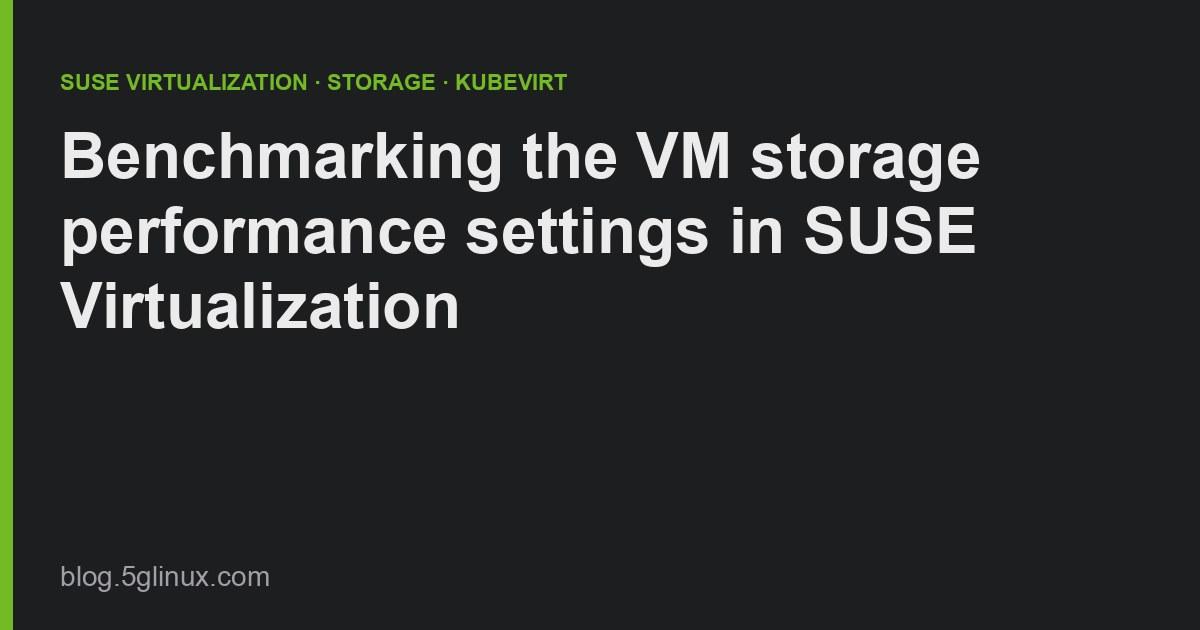
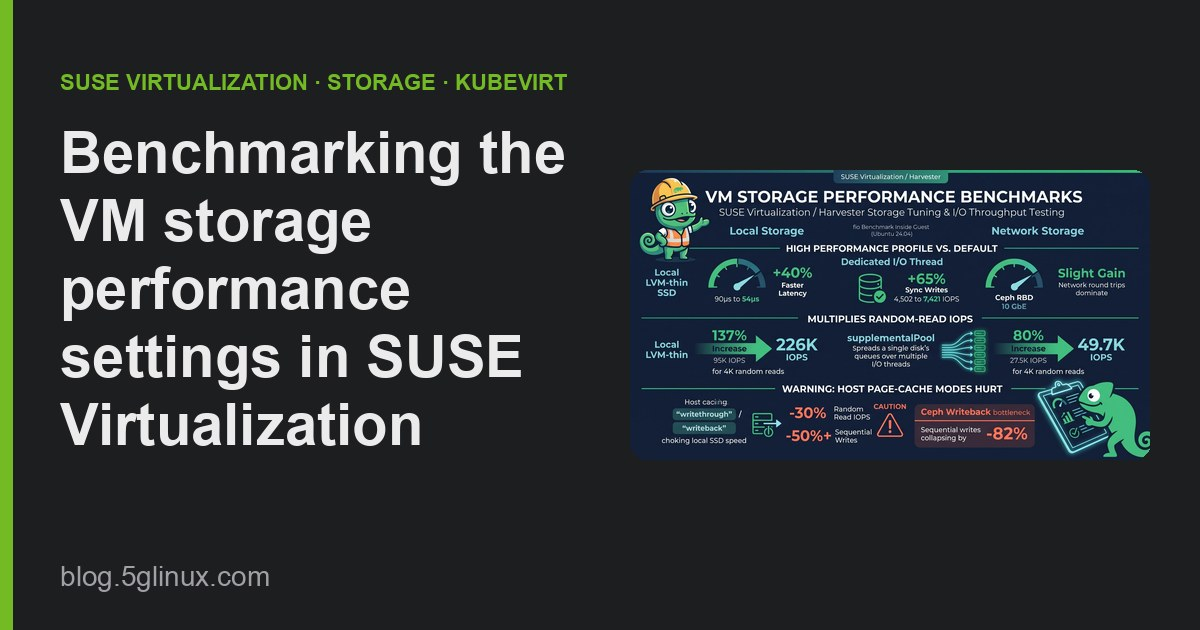
Add infographic and I/O thread scaling results to storage performance post

Changed region(s): [[0.0308, 0.2111, 0.9558, 0.7238]]

diff --git a/content/posts/vm-storage-performance-settings-benchmark-suse-virtualization/index.md b/content/posts/vm-storage-performance-settings-benchmark-suse-virtualization/index.md
@@ -17,7 +17,8 @@ images: ["og.jpg"]
 - **A supplemental I/O thread pool multiplies random-read IOPS.** With
   `ioThreadsPolicy: supplementalPool`, one disk's queues spread over several I/O threads:
   4K random reads went from 95k to **226k IOPS** (2.4×) on local storage and from
-  27.5k to **49.7k IOPS** (1.8×) on Ceph.
+  27.5k to **49.7k IOPS** (1.8×) on Ceph. Four threads was the sweet spot on an 8-vCPU
+  VM; eight was worse.
 - **Host page-cache modes hurt on fast storage.** `cache: writethrough` and
   `cache: writeback` cut random-read IOPS by about 30% and sequential writes by more than
   half on local LVM. On Ceph, writeback acknowledges small writes from host RAM
@@ -27,6 +28,8 @@ images: ["og.jpg"]
   stops the VM from starting.
 - **`blockMultiQueue` and `ioThreadsPolicy: auto`** changed almost nothing in these tests,
   and the guest already gets one queue per vCPU without `blockMultiQueue`.
+
+![Infographic summarizing the results: the High Performance profile cuts local write latency from 90 to 54 µs and raises sync writes from 4,502 to 7,421 IOPS; supplementalPool raises 4K random reads from 95K to 226K IOPS on local LVM and from 27.5K to 49.7K on Ceph; host page-cache modes cost about 30% of random reads and over half of sequential writes locally, and Ceph writeback cuts sequential writes by 82%](storage-performance-benchmark.jpg)
 
 SUSE Virtualization (Harvester) 1.9.1 adds the KubeVirt high-performance disk settings to
 the VM editor ([harvester#11550](https://github.com/harvester/harvester/issues/11550)):
@@ -68,8 +71,10 @@ The `fio` jobs (direct I/O, `libaio`, 30 s each after a 5 s ramp, on the raw dev
 | 4K random 70/30 read/write, QD16 × 8 jobs | mixed workload |
 | 1 MiB sequential read and write, QD8 × 2 jobs | backup, streaming, bulk copy |
 
-Each setting ran three times on each backend (one ran twice), rotating the order between rounds, and
-the tables show the median.
+Each setting ran three times on each backend, rotating the order between rounds, and the
+tables show the median. A fourth round of the key settings on local LVM (Default, High
+Performance, `supplementalPool` and `writeback`) landed within a few percent of these
+medians.
 
 ## Results: local LVM
 
@@ -80,7 +85,7 @@ the tables show the median.
 | `cache: writethrough` | 183 (+26%) | 261 (+189%) | 3,289 (-27%) | 67,852 (-29%) | 35,405 (-33%) | 67,838 (-23%) | 1,427 (-32%) | 504 (-64%) |
 | `cache: writeback` | 189 (+30%) | 91 (+1%) | 3,200 (-29%) | 68,294 (-28%) | 59,977 **(+13%)** | 82,346 (-7%) | 1,419 (-33%) | 582 (-59%) |
 | High Performance | 97 **(-33%)** | 54 **(-40%)** | 7,421 **(+65%)** | 93,495 (-2%) | 56,279 **(+6%)** | 94,540 **(+7%)** | 2,107 (+0%) | 1,111 (-22%) |
-| HP + multi-queue | 93 **(-36%)** | 54 **(-40%)** | 7,233 **(+61%)** | 99,094 (+4%) | 56,976 **(+7%)** | 92,777 (+5%) | 2,086 (-1%) | 1,351 (-5%) |
+| HP + multi-queue | 95 **(-35%)** | 54 **(-40%)** | 7,282 **(+62%)** | 98,319 (+3%) | 56,777 **(+7%)** | 92,325 (+4%) | 2,090 (-1%) | 1,345 (-5%) |
 | HP + policy `auto` | 101 **(-31%)** | 54 **(-41%)** | 7,337 **(+63%)** | 100,443 **(+5%)** | 56,632 **(+7%)** | 91,782 (+4%) | 2,093 (-0%) | 1,244 (-12%) |
 | HP + `supplementalPool` ×4 | 97 **(-33%)** | 54 **(-41%)** | 7,321 **(+63%)** | 226,267 **(+137%)** | 57,075 **(+7%)** | 99,219 **(+12%)** | 2,094 (-0%) | 1,335 (-6%) |
 | `bus: scsi` | 138 (-5%) | 91 (+1%) | 4,533 (+1%) | 77,473 (-19%) | 55,804 (+5%) | 76,437 (-14%) | 2,093 (-0%) | 1,296 (-9%) |
@@ -206,6 +211,26 @@ thread (policy *Shared*). For the pool, also open the VM-wide **High Performance
 Threads and Multi-Queue)** panel, set **I/O Threads Policy** to *Supplemental Pool* and
 choose the **I/O Thread Count**.
 
+### How many threads?
+
+More threads didn't keep helping. I ran the pool with 2, 4 and 8 threads on the same
+8-vCPU VM (one run each, so treat these as a direction rather than exact numbers):
+
+| Pool threads | Local 4K read IOPS | Local 70/30 IOPS | Ceph 4K read IOPS | Ceph QD1 write |
+|---|--:|--:|--:|--:|
+| 1 (High Performance only) | 93k | 95k | 28.0k | 1.78 ms |
+| 2 | 170k | 119k | 33.6k | 1.86 ms |
+| **4** | **226k** | 99k | **49.7k** | **1.73 ms** |
+| 8 | 160k | 76k | 32.4k | 3.23 ms |
+
+Four threads was the best overall on both backends. Eight threads, as many as the VM has
+vCPUs, gave back most of the gain, cut the mixed workload below Default on local storage
+and nearly doubled QD1 write latency on Ceph. Two threads won the mixed workload on local
+storage, so for a write-heavy disk 2 is worth trying too.
+
+Without the per-disk dedicated-thread flag, the pool still works: on local LVM the result
+was the same, but on Ceph it reached +55% instead of +80%. Keep both on.
+
 Each thread in the pool can use a host core when the disk is busy, so count them like
 vCPUs when you size the node.
 
@@ -234,8 +259,9 @@ reservations), not for speed.
   on local storage.
 - **Default is a sound baseline for everything else.** On block volumes it already uses
   the uncached native path, so general-purpose VMs aren't leaving much on the table.
-- **Add `supplementalPool` for disks that need IOPS** (4 threads in these tests), and
-  budget the host cores for it.
+- **Add `supplementalPool` for disks that need IOPS.** Start with 4 threads, or about
+  half the VM's vCPUs; going up to the full vCPU count made things worse. Budget the host
+  cores for it.
 - **Avoid `writethrough`.** Consider `writeback` only for workloads with many small,
   unflushed writes, after measuring.
 - **Don't expect VM settings to raise the storage's ceiling.** If every row in a column
